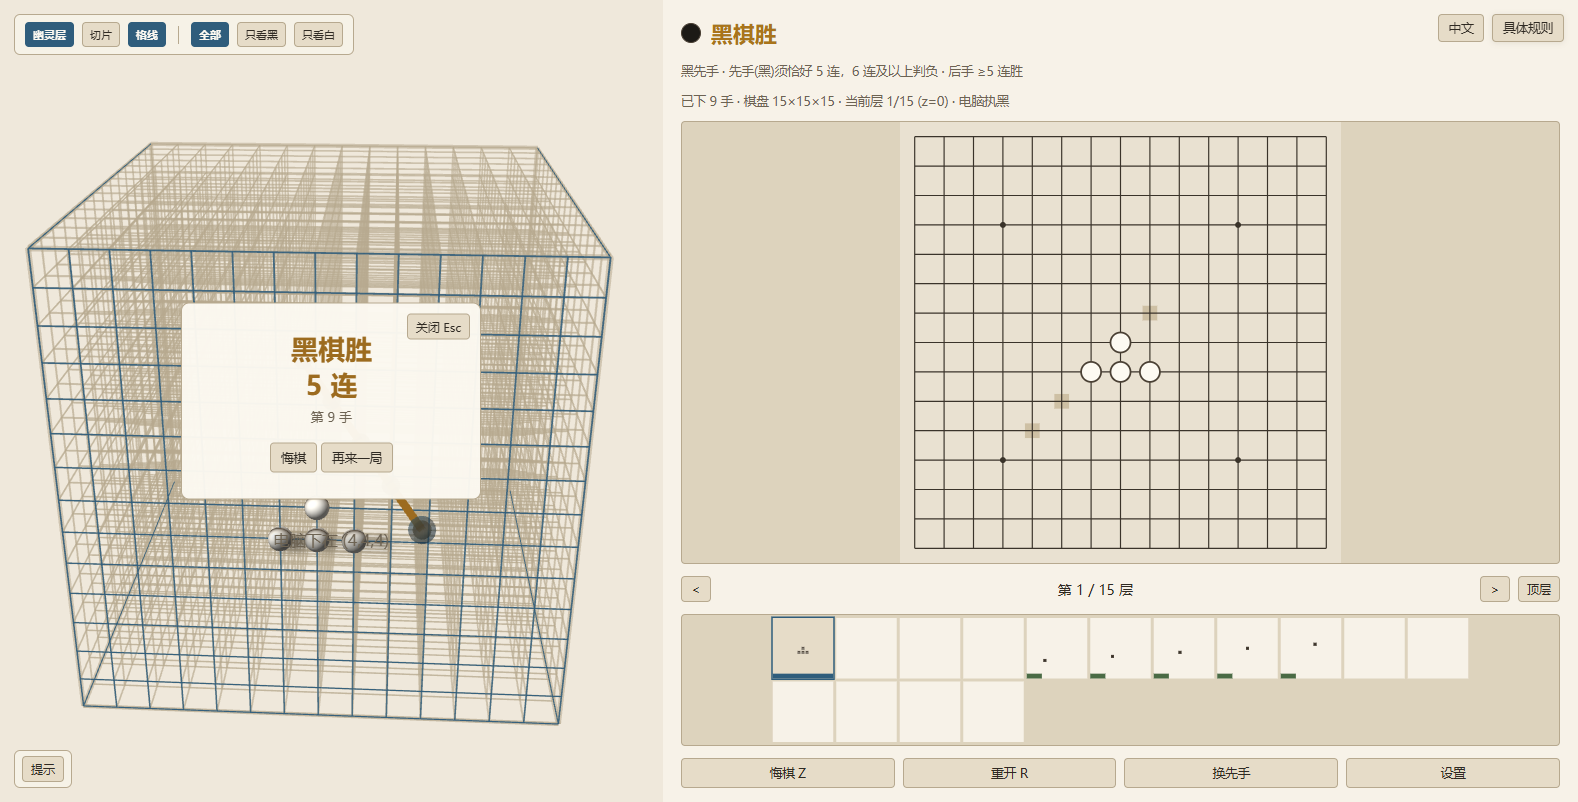
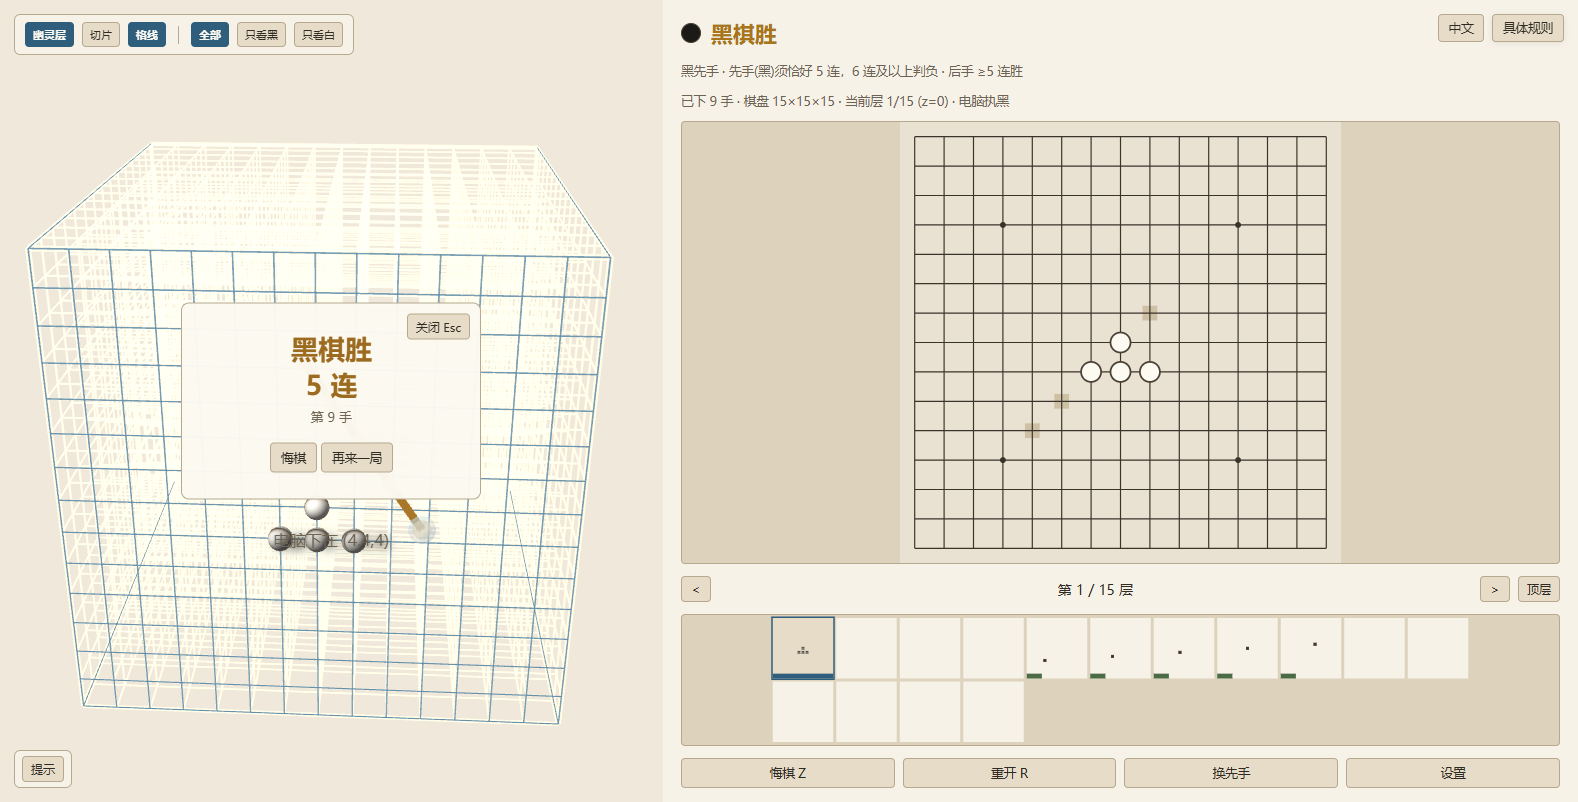
修复若干问题（v2.10.7）
按用户要求，更新日志那一行只写"修复若干问题"，细节写在这里。

## 一、角落小字的方位随屏幕方向变

`#previewTag` 原来写死"与左侧设置无关"，可设置区从来不在左边 ——
横屏时 `#stage` 是左右分栏、设置区在右；竖屏翻成上下分栏、设置区在下。
两个方向下它都指错了。

改法：容器里放两个 span，各挂一个 `data-i18n-html` 键（previewTagRight / previewTagBelow），
由 CSS 的 `@media (orientation: portrait)` 决定露出哪一个。
**容器本身不能再带 data-i18n** —— applyStatic 是拿 innerHTML 覆写的，挂在容器上会把两个 span
一起冲掉，而且那一冲是静默的：切一次语言就变回 HTML 里的中文原样。

## 二、左右两半的纸纹强度不一样（真正的"背景颜色没统一"）

缝（一条硬边）之前就修掉了：给 `#stage.preview #view` 铺上同一张纸、
并用 `background-attachment: fixed` 让渐变的定位基准是视口而不是那个 42% 宽的盒子。

但两半的**亮度**还差着一档，根因是**画布没有 alpha 通道**：
`getContext("webgl2", { alpha: false })` 让清屏色必定不透明，而演示盘那张画布整体压着
`opacity: .3` —— 于是左边 = 0.3 × 纯色 + 0.7 × 纸纹，右边 = 满纸纹。
看上去不像两块拼接的纸了，但仍然是两种底色。

改法两行：画布开 `alpha: true`；起始界面的清屏用**全透明**
（`gl.clearColor(bg, this.setupOpen ? 0 : 1)`），纸纹原样透出来，两半逐像素同色。
对局里仍然是 alpha 1 的不透明清屏，画面一个像素不变。

browser-check 新增四条：清屏 alpha 在起始界面是 0、对局里是 1（直接问 GL 的
COLOR_CLEAR_VALUE）；角落小字在横屏/竖屏下各露出正确的那一句。
断言总数 40714 → 40718。

Changed region(s): [[0.0, 0.1559, 0.4037, 0.904]]

diff --git a/Web_Gomoku3D/index.html b/Web_Gomoku3D/index.html
@@ -360,6 +360,14 @@
     padding: 6px 11px; color: var(--dim); font-size: 12.5px; line-height: 1.6;
   }
   #stage.preview #previewTag { display: block; }
+  /* 角落小字有两个方向的说法，按屏幕方向露一个：
+     横屏时设置区在右边（#stage 是左右分栏），竖屏时在下面（翻成了上下分栏）。
+     盒子的位置不变 —— 它一直在视图的左上/左下角，变的是那句话指向哪边。 */
+  #previewTagBelow { display: none; }
+  @media (orientation: portrait) {
+    #previewTagRight { display: none; }
+    #previewTagBelow { display: inline; }
+  }
 
   .titleRow { display: flex; align-items: center; gap: 14px; }
   /* 印章：朱砂底 + 楷体字。用字体而不是画一个图形，是为了不引任何外部资源。 */
@@ -2363,7 +2371,15 @@ sur un plateau 15×15×15, une couche contient en moyenne moins d'un pion, et la
     <!-- 起始界面打开时，左边这块画布就变成演示棋盘（自动缓慢旋转的 10×10×10）。
          铭牌是必须的：从对局里点「设置」进来时，左边仍然摆着一盘棋，
          不说明的话看起来像是自己的棋局还在。 -->
-    <div id="previewTag" data-i18n-html="previewTag">演示棋盘 · 10 × 10 × 10<br>与左侧设置无关，也不参与对局</div>
+    <!-- 角落那行小字：**方位随屏幕方向变** —— 横屏时设置区在右边，竖屏时在下面。
+         原来写死成"与左侧设置无关"，可设置区从来不在左边，两个方向下都指错了。
+         两个 span 各挂一个 data-i18n-html 键，由 CSS 按 orientation 决定露出哪一个。
+         【容器上不能带 data-i18n】applyStatic 是拿 innerHTML 覆写的，挂在容器上会把这两个
+         span 一起冲掉 —— 那一冲是静默的：切一次语言就变回中文原样。 -->
+    <div id="previewTag">
+      <span id="previewTagRight" data-i18n-html="previewTagRight">演示棋盘 · 10 × 10 × 10<br>与右侧设置无关，也不参与对局</span>
+      <span id="previewTagBelow" data-i18n-html="previewTagBelow">演示棋盘 · 10 × 10 × 10<br>与下方设置无关，也不参与对局</span>
+    </div>
 
     <div id="modebar">
       <button id="modeGhost" class="mini sel" data-i18n="modeGhost">幽灵层</button>
@@ -4973,7 +4989,8 @@ function storeSet(key, value) {
  */
 const STATIC_TEXT = { en: {
   // ---- 左侧舞台
-  "previewTag": "Demo board · 10 × 10 × 10<br>Independent of the settings on the left — not part of the game",
+  "previewTagRight": "Demo board · 10 × 10 × 10<br>Independent of the settings on the right — not part of the game",
+  "previewTagBelow": "Demo board · 10 × 10 × 10<br>Independent of the settings below — not part of the game",
   "hint": "Drag to rotate · Right-drag to pan · Scroll to zoom · Click to place on the current layer<br>" +
     "Touch: pinch to zoom / pan · double-tap a board to reset (works on both boards)<br>" +
     "Z undo · R restart · Q/E change layer · G view mode · H grid lines · B black/white only · T rotate · Y restore rotation<br>" +
@@ -5161,7 +5178,8 @@ const TEXT = { en: {
    靠不住眼睛，dom-smoke 里有一条逐语言、逐键的齐全性检查。
    -------------------------------------------------------------------------- */
 STATIC_TEXT.ja = {
-  "previewTag": "デモ盤 · 10 × 10 × 10<br>左の設定とは無関係、対局には含まれません",
+  "previewTagRight": "デモ盤 · 10 × 10 × 10<br>右の設定とは無関係、対局には含まれません",
+  "previewTagBelow": "デモ盤 · 10 × 10 × 10<br>下の設定とは無関係、対局には含まれません",
   "hint": "ドラッグで回転 · 右ドラッグで平行移動 · スクロールでズーム · クリックで現在のレイヤーに着手<br>タッチ：ピンチでズーム/パン · 盤をダブルタップでリセット（どちらの盤でも有効）<br>Z 元に戻す · R 最初から · Q/E レイヤー切替 · G 表示モード · H グリッド線 · B 黒/白のみ · T 回転 · Y 回転を戻す<br>緑の枠 = 回転するレイヤー · 青の枠 = 現在のレイヤー（緑は 4D のみ）",
   "modeGhost": "ゴースト表示",
   "modeSlice": "スライス",
@@ -5275,7 +5293,8 @@ TEXT.ja = {
   "hint.noWebgl2": "<b style='color:#c0392b'>このブラウザは WebGL2 に対応していないため、3Dの盤を表示できません。</b><br>右側のレイヤーパネルはそのまま使えます。",
 };
 STATIC_TEXT.ko = {
-  "previewTag": "데모 판 · 10 × 10 × 10<br>왼쪽 설정과 무관 — 게임에 포함되지 않습니다",
+  "previewTagRight": "데모 판 · 10 × 10 × 10<br>오른쪽 설정과 무관 — 게임에 포함되지 않습니다",
+  "previewTagBelow": "데모 판 · 10 × 10 × 10<br>아래쪽 설정과 무관 — 게임에 포함되지 않습니다",
   "hint": "드래그로 회전 · 오른쪽 드래그로 이동 · 스크롤로 확대/축소 · 클릭하면 현재 레이어에 착수<br>터치: 두 손가락으로 확대/이동 · 판을 더블탭하면 초기화 (두 판 모두 가능)<br>Z 되돌리기 · R 다시 시작 · Q/E 레이어 변경 · G 보기 모드 · H 격자선 · B 흑/백만 보기 · T 회전 · Y 회전 복원<br>초록 상자 = 곧 회전할 레이어 · 파란 상자 = 현재 레이어 (초록 상자는 4D 전용)",
   "modeGhost": "고스트 레이어",
   "modeSlice": "슬라이스",
@@ -5389,7 +5408,8 @@ TEXT.ko = {
   "hint.noWebgl2": "<b style='color:#c0392b'>이 브라우저는 WebGL2를 지원하지 않아 3D 판을 표시할 수 없습니다.</b><br>오른쪽 레이어 패널은 그대로 사용할 수 있습니다.",
 };
 STATIC_TEXT.ru = {
-  "previewTag": "Демо-доска · 10 × 10 × 10<br>Не зависит от настроек слева — не часть игры",
+  "previewTagRight": "Демо-доска · 10 × 10 × 10<br>Не зависит от настроек справа — не часть игры",
+  "previewTagBelow": "Демо-доска · 10 × 10 × 10<br>Не зависит от настроек снизу — не часть игры",
   "hint": "Перетаскивание — вращение вида · Правая кнопка — сдвиг · Прокрутка — масштаб · Клик — ход на текущем слое<br>Сенсор: двумя пальцами — масштаб и сдвиг · двойной тап по доске — сброс (работает на обеих досках)<br>Z — отменить · R — заново · Q/E — сменить слой · G — режим вида · H — линии сетки · B — только чёрные/белые · T — поворот слоя · Y — вернуть поворот<br>Зелёная рамка — слой, который повернётся · Синяя рамка — текущий слой (зелёная — только в 4D)",
   "modeGhost": "Призрачные слои",
   "modeSlice": "Срез",
@@ -5515,7 +5535,8 @@ TEXT.ru = {
   "hint.noWebgl2": "<b style='color:#c0392b'>Этот браузер не поддерживает WebGL2, поэтому 3D-доску показать нельзя.</b><br>Панель слоёв справа всё равно работает.",
 };
 STATIC_TEXT.fr = {
-  "previewTag": "Plateau de démo · 10 × 10 × 10<br>Indépendant des réglages à gauche — hors partie",
+  "previewTagRight": "Plateau de démo · 10 × 10 × 10<br>Indépendant des réglages à droite — hors partie",
+  "previewTagBelow": "Plateau de démo · 10 × 10 × 10<br>Indépendant des réglages en dessous — hors partie",
   "hint": "Glisser pour tourner · Clic droit pour déplacer · Molette pour zoomer · Clic pour poser sur la couche courante<br>Tactile : pincer pour zoomer / faire glisser · double appui sur un plateau pour réinitialiser (valable sur les deux plateaux)<br>Z annuler · R recommencer · Q/E changer de couche · G mode d'affichage · H lignes de grille · B noir/blanc seulement · T tourner · Y restaurer la rotation<br>Cadre vert = couche sur le point de tourner · Cadre bleu = couche courante (vert seulement en 4D)",
   "modeGhost": "Couches fantômes",
   "modeSlice": "Tranche",
@@ -6256,7 +6277,7 @@ const Renderer = {
 
   init(canvas) {
     this.canvas = canvas;
-    const gl = canvas.getContext("webgl2", { antialias: true, alpha: false, depth: true });
+    const gl = canvas.getContext("webgl2", { antialias: true, alpha: true, depth: true });
     if (!gl) {
       this.ok = false;
       return false;
@@ -7377,6 +7398,12 @@ const Game = {
     if (canvas.width !== w || canvas.height !== h) { canvas.width = w; canvas.height = h; }
 
     gl.viewport(0, 0, w, h);
+    // 【起始界面那张演示盘要【全透明】清屏】#gl 整体压着 opacity .3，清屏若是不透明的，
+    // 左边就只透出 70% 强度的纸纹（0.3 × 纯色 + 0.7 × 纸纹），而右边是满的 ——
+    // 中间那条【缝】是没了，但两半的亮度差着一档，看着还是两块不同的纸。
+    // 清成透明之后，纸纹原样透出来，两半逐像素同色。（画布因此必须开 alpha，见 Renderer.init）
+    const bgc = Palette.rgb("--bg");
+    gl.clearColor(bgc[0], bgc[1], bgc[2], this.setupOpen ? 0 : 1);
     gl.clear(gl.COLOR_BUFFER_BIT | gl.DEPTH_BUFFER_BIT);
 
     // 【注意这里传的是 CSS 像素高，不是设备像素高】：平移量是按 CSS 像素记的

diff --git a/README.md b/README.md
@@ -7,7 +7,7 @@
 
 [![在线试玩](https://img.shields.io/badge/%E5%9C%A8%E7%BA%BF%E8%AF%95%E7%8E%A9-awua--dcm.github.io-2f6f4e?style=for-the-badge)](https://awua-dcm.github.io/gomoku-3d-4d/)
 [![形态](https://img.shields.io/badge/%E5%BD%A2%E6%80%81-%E5%8D%95%E6%96%87%E4%BB%B6_%C2%B7_%E9%9B%B6%E4%BE%9D%E8%B5%96-8a6d3b?style=flat-square)](Web_Gomoku3D/index.html)
-[![断言](https://img.shields.io/badge/%E6%96%AD%E8%A8%80-40714_%E9%A1%B9%E5%85%A8%E7%BB%BF-2f6f4e?style=flat-square)](_verify/run-all.sh)
+[![断言](https://img.shields.io/badge/%E6%96%AD%E8%A8%80-40718_%E9%A1%B9%E5%85%A8%E7%BB%BF-2f6f4e?style=flat-square)](_verify/run-all.sh)
 [![许可](https://img.shields.io/badge/license-MIT-4c8bf5?style=flat-square)](LICENSE)
 
 在线试玩跑的就是仓库里这份 `index.html` 原件，托管在 GitHub Pages —— 没有构建步骤，
@@ -80,7 +80,7 @@ bash _verify/run-all.sh
 九步，期望结果：
 
 ```
-11733 + 19408 + 98 + 114 + 107 + 8845 + 115 + 294 = 40714 项断言全绿
+11733 + 19408 + 98 + 114 + 107 + 8845 + 115 + 298 = 40718 项断言全绿
 ```
 
 第 9 步（真实无头浏览器检查）是可选的：本机没装 Chrome/Edge 会自动跳过，不算失败。
@@ -97,7 +97,7 @@ bash _verify/run-all.sh
 | `node Web_Gomoku3D/tests/dom-smoke.test.mjs` | 107 | 界面桩环境（含六语言文案齐全性、手势与复位的边界值、拖拽方向约定） |
 | `node Web_Gomoku3D/tests/online.test.mjs` | 8845 | 联机内核：和网页版逐格对拍 1156 组 |
 | `node Web_Gomoku3D/tests/online-http.test.mjs` | 115 | 联机 HTTP 层（本机 loopback） |
-| `node _verify/browser-check.mjs` | 294 | 真实浏览器（GLSL 编译、布局几何、控制台报错、六语言逐屏扫描、合成多点触摸、真定时器下的人机对局） |
+| `node _verify/browser-check.mjs` | 298 | 真实浏览器（GLSL 编译、布局几何、控制台报错、六语言逐屏扫描、合成多点触摸、真定时器下的人机对局） |
 
 后两项联机测试在第 8 步里跑，**不可跳过**（端口是随机挑的空闲端口）。
 另有三个注入验证脚本，专门证明上面那些检查**真的会红**：
@@ -223,6 +223,7 @@ bash _verify/run-all.sh
 
 ### 2026.09.27
 
+- 🐛 **v2.10.7** 修复若干问题
 - 🎨 **v2.10.6** 调整起始界面：六种语言下行标同宽、按键等宽，行与行对齐；顺带把整列收紧，让「开始游戏」在 800px 高的窗口里也回到屏幕内
 - 🎨 **v2.10.5** 调整起始界面：强度拉条居中；没选「人机」时改为淡显、不可点（不再隐藏，和转动冷却在三维下的处理同一套）
 - 🎨 **v2.10.4** 调整起始界面：强度拉条移到「对手」下方单独一行，人类 / 人机两个键居中

diff --git a/README.en.md b/README.en.md
@@ -7,7 +7,7 @@
 
 [![Play online](https://img.shields.io/badge/Play_online-awua--dcm.github.io-2f6f4e?style=for-the-badge)](https://awua-dcm.github.io/gomoku-3d-4d/)
 [![Form](https://img.shields.io/badge/form-single_file_%C2%B7_zero_deps-8a6d3b?style=flat-square)](Web_Gomoku3D/index.html)
-[![Assertions](https://img.shields.io/badge/assertions-40714_passing-2f6f4e?style=flat-square)](_verify/run-all.sh)
+[![Assertions](https://img.shields.io/badge/assertions-40718_passing-2f6f4e?style=flat-square)](_verify/run-all.sh)
 [![License](https://img.shields.io/badge/license-MIT-4c8bf5?style=flat-square)](LICENSE)
 
 The online demo serves the very same `index.html` that is in this repository, hosted on
@@ -81,7 +81,7 @@ bash _verify/run-all.sh
 **All you need is node** — no Unity, no .NET, no npm packages. Nine steps; expected result:
 
 ```
-11733 + 19408 + 98 + 114 + 107 + 8845 + 115 + 294 = 40714 assertions, all green
+11733 + 19408 + 98 + 114 + 107 + 8845 + 115 + 298 = 40718 assertions, all green
 ```
 
 Step 9 (a real headless-browser check) is optional: if Chrome or Edge isn't installed it is
@@ -98,7 +98,7 @@ To run one piece on its own:
 | `node Web_Gomoku3D/tests/dom-smoke.test.mjs` | 107 | UI against a DOM stub (includes the language switch, gesture and reset edge cases, drag-direction convention) |
 | `node Web_Gomoku3D/tests/online.test.mjs` | 8845 | Networking kernel, cell-by-cell against the web build (1156 cases) |
 | `node Web_Gomoku3D/tests/online-http.test.mjs` | 115 | Networking HTTP layer (loopback) |
-| `node _verify/browser-check.mjs` | 294 | Real browser (GLSL compilation, layout geometry, console errors, six-language screen sweep, synthesized multi-touch, a real-timer game against the computer) |
+| `node _verify/browser-check.mjs` | 298 | Real browser (GLSL compilation, layout geometry, console errors, six-language screen sweep, synthesized multi-touch, a real-timer game against the computer) |
 
 The two networking tests run inside step 8 and **cannot be skipped**.
 
@@ -256,6 +256,7 @@ is in [Web_Gomoku3D/README.md](Web_Gomoku3D/README.md) — in Chinese.
 
 ### 2026.09.27
 
+- 🐛 **v2.10.7** Fixed a few problems
 - 🎨 **v2.10.6** Start screen: in all six languages the row labels share one column width and the buttons have a uniform minimum width, so every row lines up; the column was tightened to keep "Start game" above the fold
 - 🎨 **v2.10.5** Start screen: the strength slider is centred; with "Human" selected it is now dimmed and non-interactive rather than hidden (the same treatment the rotation-cooldown buttons get in 3D mode)
 - 🎨 **v2.10.4** Start screen: the strength slider now sits on its own row below the Human / Computer switch, and the two buttons are centred

diff --git a/打开流程.md b/打开流程.md
@@ -52,7 +52,7 @@ bash _verify/run-all.sh
 
 九步（第 9 步可选）。**不需要 Unity，也不需要 .NET，只要有 node。**
 
-期望结果：11733 + 19408 + 98 + 114 + 107 + 8845 + 115 + 294 = **40714 项断言全绿**。
+期望结果：11733 + 19408 + 98 + 114 + 107 + 8845 + 115 + 298 = **40718 项断言全绿**。
 
 单跑某一项：
 
@@ -65,7 +65,7 @@ bash _verify/run-all.sh
 | `node Web_Gomoku3D/tests/dom-smoke.test.mjs` | 107（界面桩环境，含六语言文案齐全性） |
 | `node Web_Gomoku3D/tests/online.test.mjs` | 8845（联机内核与网页版逐格对拍） |
 | `node Web_Gomoku3D/tests/online-http.test.mjs` | 115（联机 HTTP 层） |
-| `node _verify/browser-check.mjs` | 294（真实无头浏览器；没装浏览器会自动跳过） |
+| `node _verify/browser-check.mjs` | 298（真实无头浏览器；没装浏览器会自动跳过） |
 
 第 9 步的截图落在 `_verify/shots/`。
 
@@ -97,4 +97,4 @@ shell 会把它拆成多个参数，然后拼出一个不存在的路径并**静
 | 英文的术语是否前后一致 | 同上；术语表在 `Web_Gomoku3D/README.md` |
 | **电脑对手的棋力手感** | 开一局人机，三档各下几盘。自动检查只验到"合法、不卡死、算得快、三档强弱关系对"，**"弱档是不是真的能被新手赢""中档是不是还有点意思"只能你自己下**。参考图 `_verify/shots/7-人机对战.png` |
 
-其余部分（40714 项断言）都已经真实跑过并通过。
+其余部分（40718 项断言）都已经真实跑过并通过。
